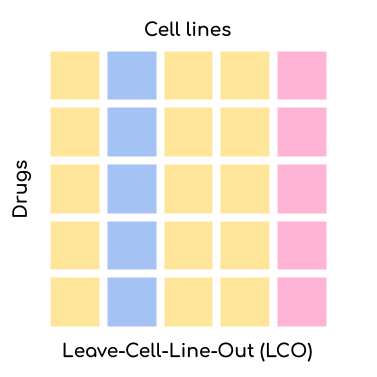
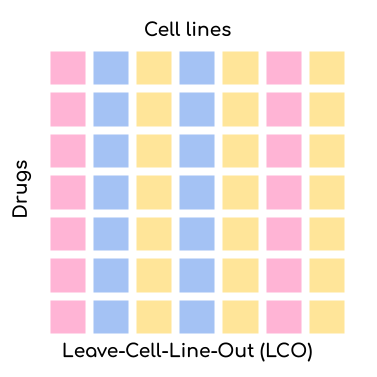
lto visualization support

diff --git a/drevalpy/visualization/utils.py b/drevalpy/visualization/utils.py
@@ -81,7 +81,8 @@ def parse_results(path_to_results: str, dataset: str) -> tuple[pd.DataFrame, pd.
     # Convert the path to a forward-slash version for the regex (for Windows)
     result_dir_str = str(result_dir).replace("\\", "/")
     pattern = re.compile(
-        rf"{result_dir_str}/{dataset}/(LPO|LCO|LDO)/[^/]+/(predictions|cross_study|randomization|robustness)/.*\.csv$"
+        rf"{result_dir_str}/{dataset}/"
+        r"(LPO|LCO|LDO|LTO)/[^/]+/(predictions|cross_study|randomization|robustness)/.*\.csv$"
     )
     result_files = [file for file in result_files if pattern.match(str(file).replace("\\", "/"))]
 

diff --git a/docs/usage.rst b/docs/usage.rst
@@ -70,15 +70,19 @@ DrEval is designed to ensure that drug response prediction models are evaluated 
 reproducible manner. We offer three settings via the ``--test_mode`` parameter:
 
 .. image:: ../drevalpy/visualization/style_utils/LPO.png
-    :width: 25%
+    :width: 24%
     :alt: Image visualizing the Leave-Pair-Out setting
 
 .. image:: ../drevalpy/visualization/style_utils/LCO.png
-    :width: 25%
+    :width: 24%
     :alt: Image visualizing the Leave-Cell-Line-Out setting
 
+.. image:: ../drevalpy/visualization/style_utils/LTO.png
+    :width: 24%
+    :alt: Image visualizing the Leave-Tissue-Out setting
+
 .. image:: ../drevalpy/visualization/style_utils/LDO.png
-    :width: 25%
+    :width: 24%
     :alt: Image visualizing the Leave-Drug-Out setting
 
 * **Leave-Pair-Out (LPO)**: Random pairs of cell lines and drugs are left out for validation/testing but both the drug and the
